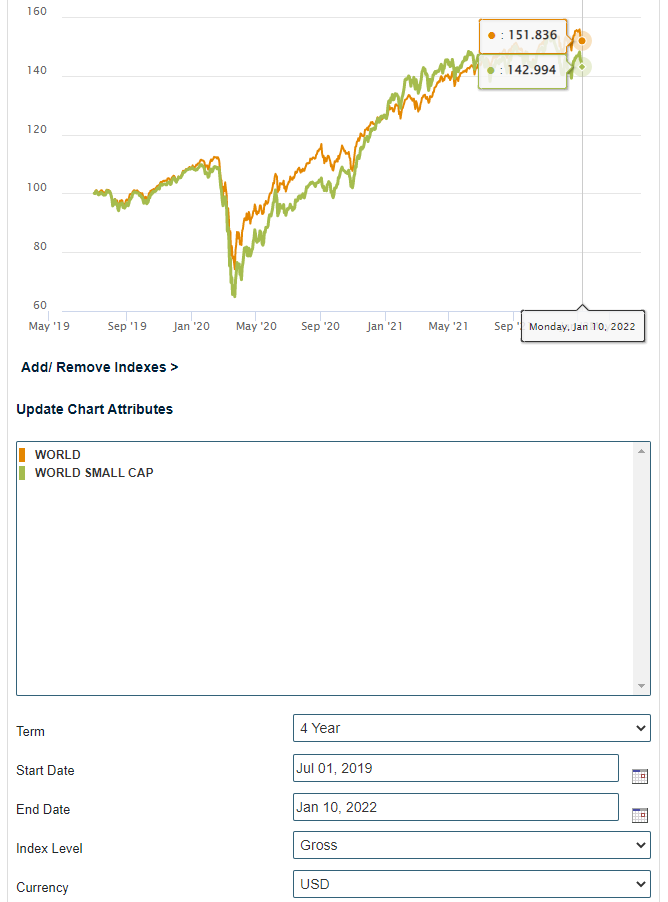
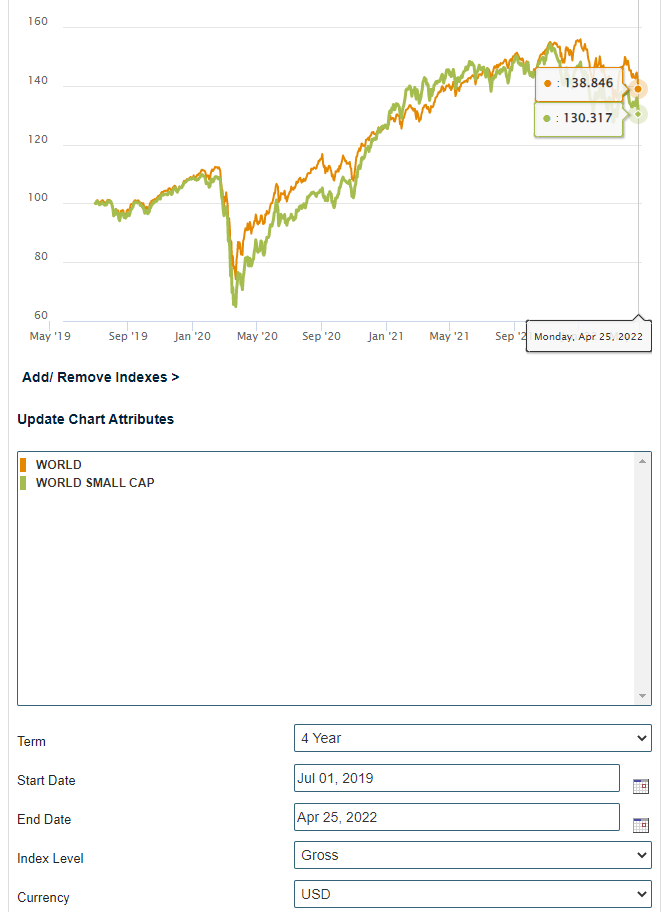
Update bet-of-the-decade

diff --git a/blog/bet-of-the-decade.html b/blog/bet-of-the-decade.html
@@ -72,7 +72,7 @@
 <section class="row">
 <div class="coffee-span-12 header">
 <h3 class="heading-1" style="direction: rtl; font-size: 40px; padding-bottom: 20px;">התערבות העשור: השקעה פאסיבית מול מנוהלת</h3>
-<p class="paragraph" style="font-size:12px;">פורסם בתאריך 30.6.2019, עדכון אחרון ב-10.1.2022</p>
+<p class="paragraph" style="font-size:12px;">פורסם בתאריך 30.6.2019, עדכון אחרון ב-26.4.2022</p>
 <p class="paragraph" style="font-size:12px;">התכנים בפוסט זה, כמו כל שאר התכנים בבלוג, הינם תכנים לימודיים במהותם, הם אינם מהווים ייעוץ או המלצה לביצוע פעולה בנייר ערך, ואין לראות בהם תחליף לייעוץ השקעות ו/או ייעוץ פנסיוני המתחשב בצרכיו הייחודיים של כל אדם.</p>
 <br>
 <div class="container table-row">
@@ -118,17 +118,17 @@
 <p class="paragraph"><b>מדוע דווקא המדדים הללו?</b> כיוון שמדדי מניות קטנות מספקים תשואה היסטורית (נומינלית) של כ-12% לשנה בממוצע רב-שנתי, ומדדי מניות גדולות מספקים תשואה של כ-10% לשנה בממוצע רב-שנתי, יש היגיון בחשיפה משמעותית של התיק גם למניות קטנות ולא רק למניות גדולות או מניות ענק כמו המניות הכלולות במדד ה-S&P 500 למשל (כמובן שהתשואה העודפת באה ע"ח תנודתיות גבוהה יותר). הסיבה לבחירת שני מדדים ולא מדד גלובלי אחד שכולל גם חברות גדולות וגם קטנות (כדוגמת MSCI World All Cap Index) היא שהמשקל של כמה מאות מניות ענק במדד עולמי אחד מהווה כ-80% מכלל המדד, כך שאלפי חברות קטנות יותר מקבלות חשיפה מאוד נמוכה. לכן, בחר רונן להקצות 50% מהתיק למדד מניות גדולות ו-50% למדד מניות קטנות. אין לראות בתיק זה משום המלצה לביצוע פעולה בניירות ערך או לייעוץ השקעות המתחשב בצרכיו הייחודיים של כל אדם.</p>
 
 <p class="paragraph" style="padding-top: 20px; font-size:22px; color: #008000" id="results">תוצאות ההתערבות</p>
-<p class="paragraph">התוצאות שלהלן הינן התוצאות המצטברות ממועד תחילת ההתערבות (ה-1.7.2019) ועד ה-10.1.2022. נכון למועד זה:</p>
-<p class="paragraph">התיק של יואב השיג תשואה מצטברת של <b>26.04%</b>.</p>
-<p class="paragraph">התיק של רונן השיג תשואה מצטברת של <b>47.42%</b>.</p>
-<p class="paragraph">הפרש התשואות עומד כרגע על <b>21.38%</b> לזכות התיק של רונן, המהווה גידול של 3.07% בהפרש התשואות מהרבעון הקודם.</p>
+<p class="paragraph">התוצאות שלהלן הינן התוצאות המצטברות ממועד תחילת ההתערבות (ה-1.7.2019) ועד ה-25.4.2022. נכון למועד זה:</p>
+<p class="paragraph">התיק של יואב השיג תשואה מצטברת של <b>5.53%</b>.</p>
+<p class="paragraph">התיק של רונן השיג תשואה מצטברת של <b>34.58%</b>.</p>
+<p class="paragraph">הפרש התשואות עומד כרגע על <b>29.05%</b> לזכות התיק של רונן, המהווה גידול של 7.67% בהפרש התשואות מהרבעון הקודם.</p>
 <br>
 <p class="paragraph" style="font-size:18px;">סיכום תוצאות התיק של יואב</p>
-<p class="paragraph">התיק של יואב התחיל משווי של $3,455, ובנטרול עמלות הקניה החד פעמיות ($158) כמתואר בפרטי ההתערבות שלעיל, עמד על שווי של $3,613. נכון למועד הדיווח התיק עמד על שווי של $4,509, כלומר שווי של $4,667 בנטרול עמלת הקניה, שווי המגלם תשואה של 29.17%. בניכוי דמי הניהול המצטברים ($113) עומדת התשואה על 26.04%. הטבלה שלהלן מפרטת את התשואות של כל אחת מהמניות בתיק של יואב.</p>
+<p class="paragraph">התיק של יואב התחיל משווי של $3,455, ובנטרול עמלות הקניה החד פעמיות ($158) כמתואר בפרטי ההתערבות שלעיל, עמד על שווי של $3,613. נכון למועד הדיווח התיק עמד על שווי של $3,780, כלומר שווי של $3,938 בנטרול עמלת הקניה, שווי המגלם תשואה ברוטו של 8.99%. בניכוי דמי הניהול המצטברים ($125) עומדת התשואה על 5.53%. הטבלה שלהלן מפרטת את התשואות של כל אחת מהמניות בתיק של יואב.</p>
 <p class="paragraph" style="text-align: center;"><img src="../images/results-yoav.png" alt="results-yoav"></p>
 <br>
 <p class="paragraph" style="font-size:18px;">סיכום תוצאות התיק של רונן</p>
-<p class="paragraph">התיק של רונן התחיל משווי של $200 ($100 לכל מדד) ועמד נכון למועד הדיווח על שווי של $294.83, המגלם תשואה של 47.42%. הגרף שלהלן מציג את התשואה של שני המדדים בתיק של רונן.</p>
+<p class="paragraph">התיק של רונן התחיל משווי של $200 ($100 לכל מדד) ועמד נכון למועד הדיווח על שווי של $269.16, המגלם תשואה של 34.58%. הגרף שלהלן מציג את התשואה של שני המדדים בתיק של רונן.</p>
 <p class="paragraph" style="text-align: center;"><img src="../images/results-ronen.png" alt="results-ronen"></p>
 <br>
 <script type='text/javascript' src='//form.ravpage.co.il/fbafa30d95b851a0b3ba5984f76428c55E9FF981' charset='UTF-8'></script>
